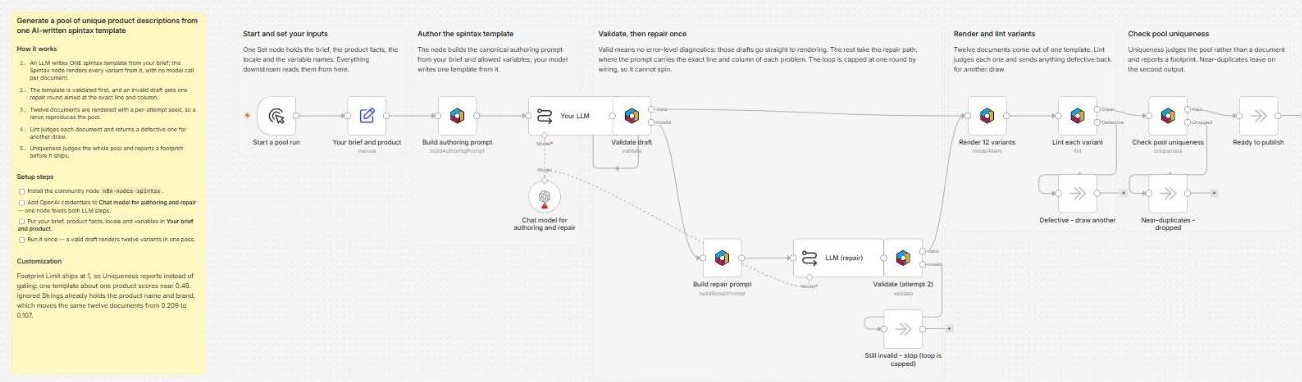
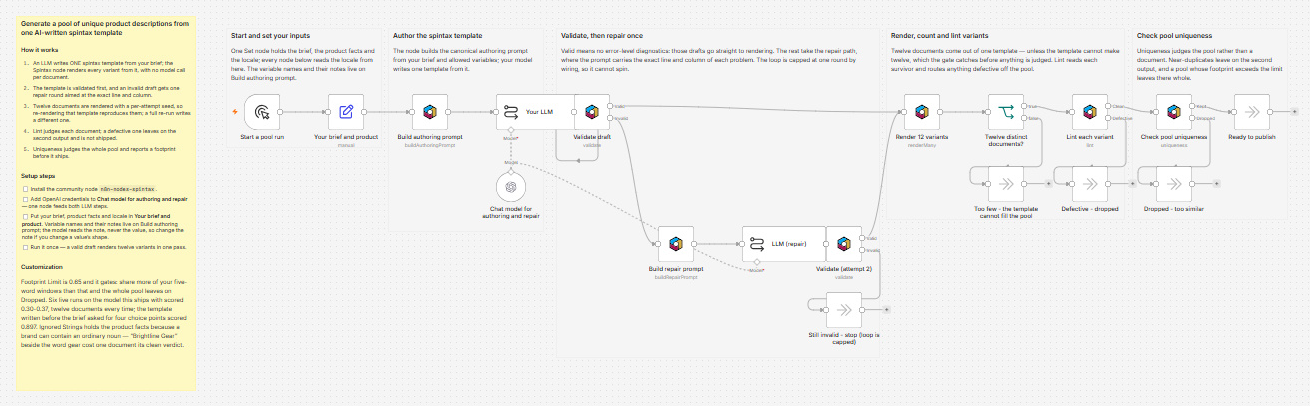
fix(templates): rebuild the pool demo after actually running it
n8n rejected this submission a third time with a warning that the account may be
banned, for "AI-generated workflows without proper quality checks". They were
right that nobody had run it. Running it — twenty times, on n8n 2.35.7, latterly
with a real OpenAI key on the node and model the template ships with — found
seven defects, every one of them reachable by a reviewer pressing Execute:

- the sample data carried its own article (`a 240 g upper…`) while the model
  wrote `The %feature%`, so two runs in three produced "The a 240 g upper". The
  contract now lives in the per-variable note, which buildAuthoringPrompt renders
  to the model, rather than in a brief rule that contradicted the canonical
  prompt's own `our %product%` advice.
- the brief never said what the product WAS. Given a name, a feature and an
  audience, models wrote about "your unit", "digital onboarding" and "preferred
  configuration" — for a running shoe. That was the generic copy the reviewer
  objected to, and it was the brief causing it, not the model: a small model
  writes well once the brief names the product, and a large one writes badly
  when it does not.
- the model kept producing templates with one choice point, so ten of twelve
  documents were near-duplicates and reached "Ready to publish" unchecked. The
  brief now states the requirement structurally (four choice points, one per
  sentence) and the workflow gates on `produced === requested`.
[…]

diff --git a/packages/n8n-node/src/ops/uniqueness.ts b/packages/n8n-node/src/ops/uniqueness.ts
@@ -39,10 +39,11 @@ export interface NormalizeOptions {
   /**
    * EXACT strings every document repeats and that are not the copy being judged
    * (step 1) — matched literally, never as a `%…%` pattern. Macros and merge tags are
-   * the obvious case; a fixed variable value is the one people miss. Measured on the
-   * gallery pool: leaving the product name, brand and feature phrase in scored 0.209,
-   * and excluding them scored 0.107 — the same twelve documents, the difference being
-   * whether the metric judged the writing or the product name.
+   * the obvious case; a fixed variable value is the one people miss. How much it moves the
+   * number depends on how much the copy leans on those values: on a thin template that named
+   * the product every sentence it was 0.209 against 0.107, and on the varied template the
+   * gallery demo ships now (2026-08-26) it is 0.223 against 0.204 — the option earns its place
+   * either way, but the first figure is not a general law.
    */
   macros?: readonly string[];
   bodyFormat?: BodyFormat;

diff --git a/docs/spec-n8n-node.md b/docs/spec-n8n-node.md
@@ -683,8 +683,15 @@ first attempt → 12 variants → 11 clean, 1 genuine defect ("place" twice, one
 footprint 0.347. Two measurements from those runs shaped the template and the node:
 
 - a pool from ONE template about one product scores a footprint near **0.49**, so a 0.15 gate
-  condemns it wholesale — the demo therefore ships `Footprint Limit = 1` (report, not gate) and the
-  sticky says so;
+  condemns it wholesale — the demo therefore shipped `Footprint Limit = 1` (report, not gate).
+  **Superseded 2026-08-26.** That 0.49 was measured on a template the model wrote when nothing
+  had told it how many distinct documents to support; rewriting the brief to say so moved seventeen
+  live runs into 0.19-0.46 — sixteen of them producing the full twelve documents, one collapsing
+  to a single combination, which is why the gate exists. The brief, not the model, was the
+  bottleneck: a small model (haiku-4.5) went 5/5 on cardinality where a large one went 11/12. The demo now ships a real gate at **0.5** — plus an explicit
+  `produced === requested` check, because the footprint alone cannot do that job: below five
+  documents the metric is 1 by construction, and a pool of eight genuinely different documents
+  scores 0 and would sail through;
 - the same twelve documents score **0.209** with the product name, brand and feature phrase inside
   the measurement and **0.107** with them excluded — which is why Lint gained Ignored Strings and
   why both checks are fed the configured values from the one Set node.
@@ -696,7 +703,29 @@ repo's `docs/TODO.md`: the third template is not linked yet (the two that are ca
 against a live n8n" claim), and the template links still point at raw GitHub until gallery URLs
 exist.
 
-**Next, in order.** 18308 verdict → on publish, submit `ai-authoring-funnel` → a third template
+**The third template is ARTICLES, and it is a new workflow rather than a rewrite** (owner decision
+2026-08-26). Bulk articles for content marketplaces is the bigger market — bigger than product
+descriptions, and not a duplicate of anything: mailings are already the published `17930`, so
+repointing the pool at them would compete with our own listing.
+
+It cannot be built by editing an existing template, and the reason is a locked decision, not
+effort. `buildAuthoringPrompt` writes the prose of ONE block and never emits markup (§3, #76) — the
+constraint that made four template defect classes unreachable for the first external consumer. An
+article needs `<h2>` / paragraphs / lists, so the workflow has to call the prompt PER BLOCK and
+compose the structure itself: a loop over sections, not the current linear graph.
+`ai-authoring-funnel` is the closer starting point, being already about authoring.
+
+Two things to settle before it starts. Whether the existing channels serve per-block article
+generation, or whether this is the second real host that would justify a `longform` channel — which
+CLAUDE.md says is not planned until exactly that happens, so it is a deliberate contract change and
+not a passing tweak. And that Uniqueness matters MORE here than for product copy: a content
+marketplace lives on whether two hundred articles are genuinely different, which is the question
+the footprint answers.
+
+Sequencing is deliberate: **not now.** The account carries a ban warning, and sending a brand-new
+workflow through review while that stands is the wrong risk. 18308 is measurably good now; finish it.
+
+**Next, in order.** 18308 verdict → on publish, submit `ai-authoring-funnel` → the ARTICLES template
 (three approved = verified creator: batches of four, a badge, paid templates) → forum Show & Tell,
 which needs live gallery pages → node verification. The verification form is only an npm URL plus
 two checkboxes (no notes field, so a prepared cover letter has nowhere to go); `npx @n8n/node-cli

diff --git a/packages/n8n-node/templates/README.md b/packages/n8n-node/templates/README.md
@@ -44,12 +44,15 @@ turns it into 12 documents, and then two checks say whether they are any good. *
 each rendered document for the defects that live in the *combination of choices* and never in the
 template — two adjacent slots picking the same word, a noun and a pronoun disagreeing, punctuation
 debris from an unlucky join — and routes defective drafts away. **Uniqueness** reads the surviving
-pool as a whole: it drops near-duplicates and reports the shared-shingle footprint, the number
-that distinguishes "twelve different documents" from "one skeleton wearing twelve hats" (measured
-on real pools: one template 0.962, six templates 0.017). The LLM runs once; every future run of
-the pool costs nothing. No credentials on the Spintax side.
+pool as a whole: it drops near-duplicates and measures the shared-shingle footprint — the number
+that distinguishes "twelve different documents" from "one skeleton wearing twelve hats" — and in
+this template it GATES on it, so a pool that turns out to be one skeleton leaves on Dropped
+rather than reaching Ready to publish. A gate before it checks that the template could produce
+twelve distinct documents at all. The LLM runs once per template, not per document: re-rendering that
+template is free, while re-running the whole workflow calls the model again and writes a
+different one. No credentials on the Spintax side.
 
-**Requires:** `n8n-nodes-spintax` ≥ 0.2.1 (Lint, Uniqueness, and Lint's Ignored Strings). Gallery workflow 18308: submitted 2026-08-16, resubmitted 2026-08-20, **bounced again the same day** with a generic checklist. Fixed and **resubmitted 2026-08-25** (under review) against §6.2 — two nodes carried n8n default names and `## Validate the draft` covered a single node. The canvas image the description needs is `product-copy-pool.png` beside this file; the portal renders it at 858px wide, so it has to stay legible there.
+**Requires:** `n8n-nodes-spintax` ≥ 0.2.1 (Lint, Uniqueness, and Lint's Ignored Strings). Gallery workflow 18308: submitted 2026-08-16, bounced 2026-08-20, resubmitted and **rejected a third time 2026-08-25 with a warning that the account may be banned** for "AI-generated workflows without proper quality checks". Rebuilt 2026-08-26 after the manual review that complaint asked for, which found five real defects — see `docs/spec-n8n-node.md` §6.2. **Not resubmitted**: the next move is a reply on the review thread, not another upload. The canvas image the description needs is `product-copy-pool.png` beside this file; the portal renders it at 858px wide, so it has to stay legible there.
 
 ## ai-authoring-funnel.json
 
